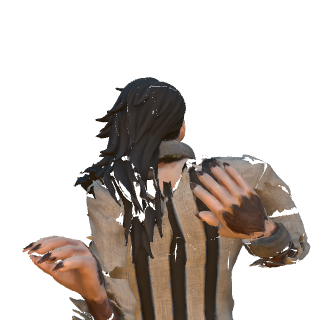
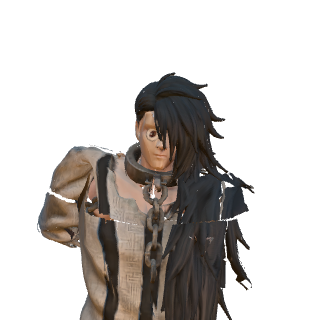
fix(models): Dio and Deathfang faced backwards in fights and on their cards
Both model files face -Z (four-angle probe of the game's own instance, bind
pose and stance: face at 180 deg). deathfang was recorded +Z and dio-attire1
was unlisted (feet cue +Z); both are -Z now in model-facing.json, with the
reason in its corrections block. Cards recaptured: both face the camera. A
real local fight (dio vs deathfang) shows both fighting toward each other;
owner on that picture: 'U fixed them both already in that picture'.

fight_entry_probe.mjs: SETTLE_S also saves an in-fight screenshot.

Claude-Session: https://claude.ai/code/session_01CLThWtX97Fi7zFw5wnvydL

diff --git a/docs/proof/2026-11-06/cards-facing/README.md b/docs/proof/2026-11-06/cards-facing/README.md
@@ -1,0 +1,13 @@
+# Dio and Deathfang faced backwards (2026-11-06)
+
+Both select cards showed the fighter's back. `tools/portraits/facing_probe.mjs` rendered the game's own instance (the
+one the fight uses) from four camera angles, in the bind pose and in the stance: both faces sit at 180 deg from the
+card camera (`facing-probe-rest-vs-stance.png`). So these two model files face -Z: `deathfang` was recorded `+Z`, and
+`dio-attire1` was unlisted (the feet cue read `+Z`). Both are now `-Z` in `game/assets/models/model-facing.json`.
+
+- `dio-deathfang-cards-old-new.png`: old card / recaptured card, both fighters now face the camera.
+- `dio-vs-deathfang-fight.png`: a real local fight (`SETTLE_S=12 node tools/proof-harness/fight_entry_probe.mjs ...
+  dio deathfang`), both standing and fighting toward each other. Owner, on this picture: "U fixed them both already in
+  that picture".
+
+The broken originals stay in `game/assets/portraits/broken-originals-20261106/`.
